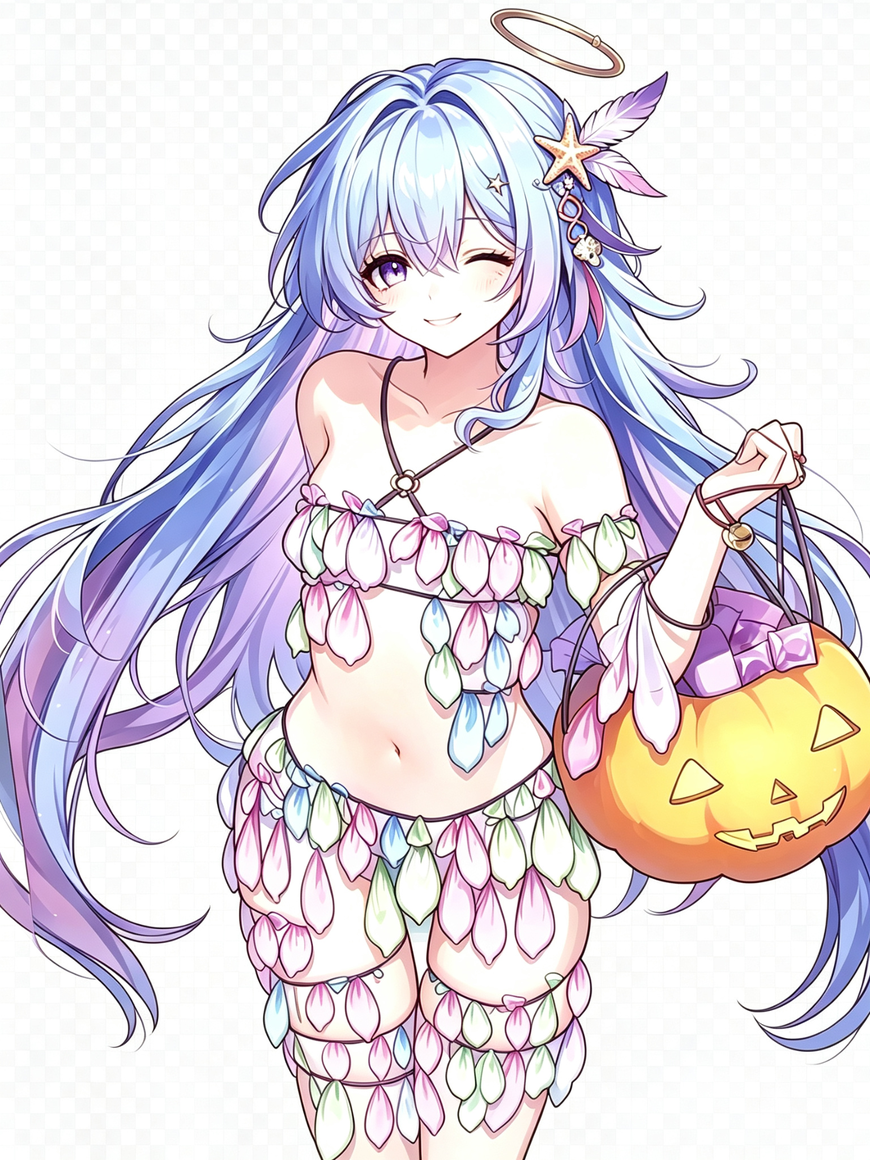
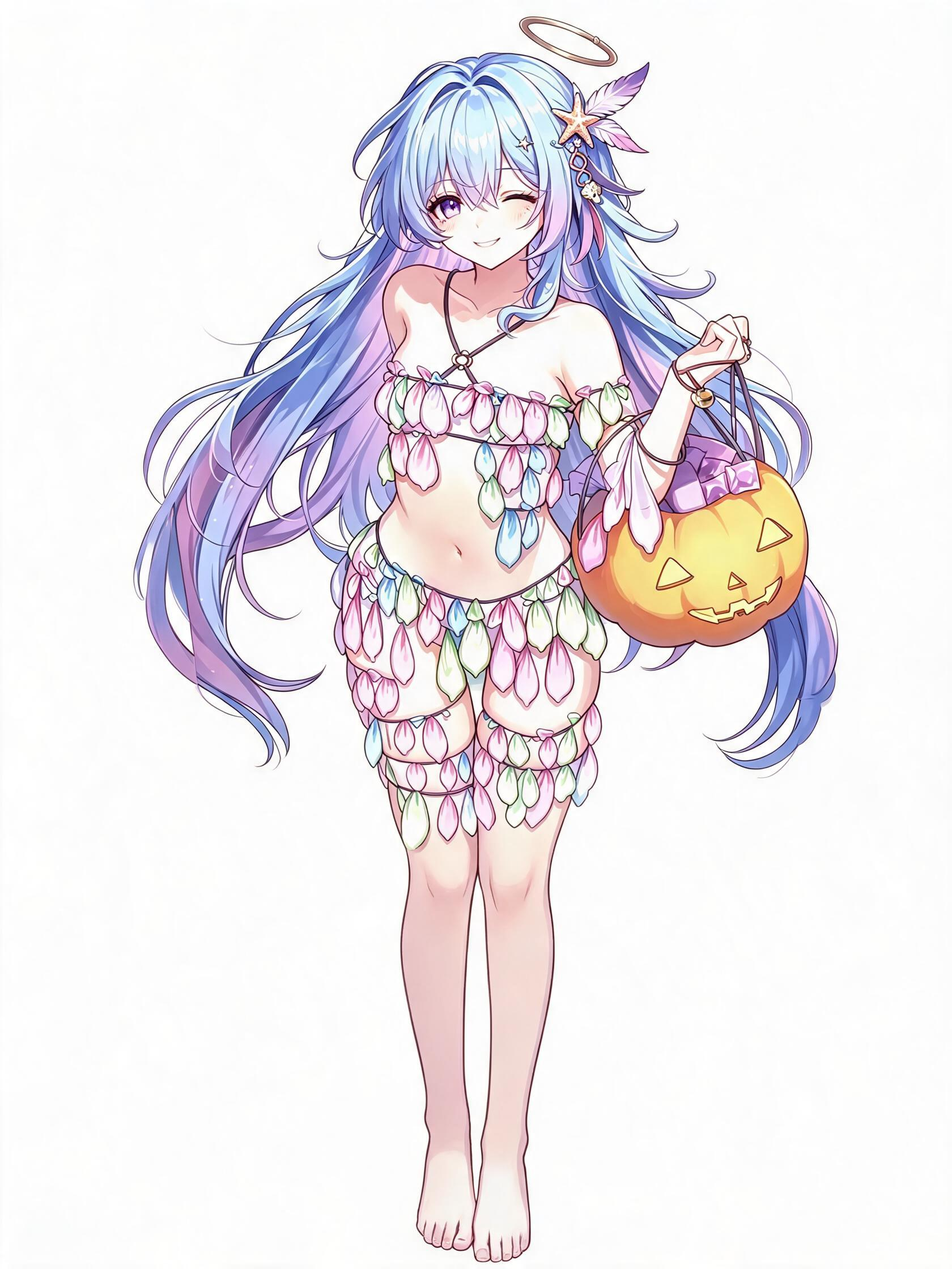
feat: 全身立绘 core-ip 更新 + 光环修复 + rename 去尾缀 + blink 流程 + 托盘图标适配
- core-ip 源图由 .png 更新为 1680×2240 全身立绘（core-ip.jpg），删除旧 core-ip.png
- make-tray-icon.py：源图改 core-ip.jpg，默认裁剪区收紧为 (0.34,0.06,0.66,0.30) 让脸更撑满；重新生成 tray-icon.png
- rename-assets.py：新增「去多余尾缀」能力（<prefix>-<prefix>-<num> → <prefix>-<num>）
- preprocess-v7 -gpu/cpu：keep_largest_connected 增加第 3 规则，保留头顶光环等小而可信的分离部件（面积≥全图0.1% 且 mean alpha≥150）
- blink 流程：新源 blink-0X-full-legs.jpg 经去尾缀收敛为 blink-0X.jpg，全量 GPU 抠图+assemble+process 重处理
- 全量重处理 133 帧后 qa PASS(133/133)，check:quick 全绿
- README 同步 core-ip 引用与托盘生成说明

diff --git a/rename-assets.py b/rename-assets.py
@@ -8,7 +8,7 @@ rename-assets.py — assets-raw 帧整理（流水线第 1 步）：统一转 .j
 （按文件头魔数判定，不信任扩展名）。本脚本把它们统一收敛为
 「<state>-01.jpg … <state>-NN.jpg」，再由 preprocess 统一产出透明 png。
 
-做两件事：
+做三件事：
   1. 转 jpg：真实格式非 jpg 者解码后存 JPEG（默认 q95、4:4:4 无子采样；
      subsampling=0 避免角色边缘色渗）。源为 jpg 时只改名不重编码（无损）。
      RGBA 源按 RGB 落盘（白底图无透明信息需保留）。
@@ -16,6 +16,9 @@ rename-assets.py — assets-raw 帧整理（流水线第 1 步）：统一转 .j
      各自并入连续序列、消除文件名空格（" blink - 1 .png" → "blink-01.jpg"）。
      落盘按**降序执行**（先写高编号），原地重编号时目标名若与未处理帧的源同名
      （如 look-03.5 的目标 look-04.jpg 恰是帧 4 的源），先腾走旧名再写入，不会覆盖真实帧。
+  3. 去多余尾缀：文件名形如 <state>-NN-<尾缀>...（尾缀可含连字符/数字/点）统一收敛为
+     <state>-NN（仅保留「前缀-帧号」两段），例如 look-01-2026-09-06-extra.jpg → look-01.jpg。
+     与编号收拢共用：尾缀帧按其帧号入桶，输出标准名即自动去掉尾缀（mtime 冲突裁决规则一致）。
 
 命名冲突（同帧号多源文件）：按**源文件修改日期最新者**直接覆盖旧的
 （不再送回收站、不再报错中止）。
@@ -39,6 +42,12 @@ FRAME_RE = re.compile(
     re.IGNORECASE,
 )
 
+# 去尾缀：<前缀>-<帧号>-<尾缀>...<ext>，尾缀可含连字符/数字/点，仅取「前缀-帧号」
+FRAME_RE_TAIL = re.compile(
+    r'^(?P<prefix>.+)-(?P<num>\d+(?:\.\d+)?)-.+\.(?P<ext>' + '|'.join(IMG_EXTS) + r')$',
+    re.IGNORECASE,
+)
+
 
 def real_ext(path):
     """读文件头魔数判定真实格式，返回 'png'/'jpg'/'webp'/'bmp'；识别不出返回 None。"""
@@ -59,23 +68,31 @@ def real_ext(path):
 
 
 def collect(prefix, names):
-    """返回 {帧号(float): [原始文件名, ...]}，只保留匹配 <prefix>-<num>.<ext> 的帧。
+    """返回 (items, tail_origins)。
 
+    items: {帧号(float): [原始文件名, ...]}，匹配 <prefix>-<num>.<ext> 或
+           <prefix>-<num>-<尾缀>.<ext>（去尾缀）的帧。
     源导出文件名常带空格（" blink - 1 .png"），匹配前先去空格；
-    同一帧号多文件（多格式并存）全部收集，冲突在 plan 阶段按 mtime 裁决。
+    同一帧号多文件（多格式/带尾缀并存）全部收集，冲突在 plan 阶段按 mtime 裁决。
+    tail_origins: set，记录带尾缀的源文件名（供预览标注「去尾缀」）。
     """
     items = {}
+    tail_origins = set()
     for orig in names:
         base, ext = os.path.splitext(orig.strip())
         if not ext or ext[1:].lower() not in IMG_EXTS:
             continue
         cleaned = base.replace(' ', '') + ext.lower()
         m = FRAME_RE.match(cleaned)
+        if not m:
+            m = FRAME_RE_TAIL.match(cleaned)
+            if m:
+                tail_origins.add(orig.strip())
         if not m or m.group('prefix').lower() != prefix.lower():
             continue
         num = float(m.group('num'))
         items.setdefault(num, []).append(orig.strip())
-    return items
+    return items, tail_origins
 
 
 def plan(prefix, items, d):
@@ -152,7 +169,7 @@ def main():
     short = os.path.basename(d.rstrip('/\\')) or d
 
     for prefix in args.prefix:
-        items = collect(prefix, os.listdir(d))
+        items, tail_origins = collect(prefix, os.listdir(d))
         if not items:
             print(f"[{prefix}] {short} · 未找到该前缀的帧")
             continue
@@ -161,9 +178,14 @@ def main():
         for src, dst in converts:
             tag = "保留" if src.lower() == dst.lower() else (
                 "转 jpg" if real_ext(os.path.join(d, src)) != TARGET_EXT else "改名")
+            if src in tail_origins:
+                tag = "去尾缀" if tag == "保留" else f"去尾缀·{tag}"
             print(f"  · {src} → {dst}   [{tag}]")
         for name in deletes:
-            print(f"  · {name}   [覆盖删除（非最新）]")
+            if name in tail_origins:
+                print(f"  · {name}   [去尾缀·覆盖删除（非最新）]")
+            else:
+                print(f"  · {name}   [覆盖删除（非最新）]")
         if not args.apply:
             continue
         do_convert(d, converts, deletes, args.quality, True)

diff --git a/preprocess-v7 -gpu.py b/preprocess-v7 -gpu.py
@@ -10,8 +10,12 @@ GPU 抠白底：assets-raw/ → taozi-pet/incoming-assets/（透明 PNG，默认
 
 用 BiRefNet 在 CUDA 上推理生成基础 alpha，再叠加三步后处理保证 QA 兼容：
   1) 保护色（肤色 / 南瓜色，含 2px 膨胀）
-  2) 保留中心最大连通块
+  2) 保留主体连通块 + 可信的分离部件（头顶光环）
   3) 清理最边缘 2px 前景
+
+光环浮在头顶、与身体不相连，面积只有主体的 0.5%~0.7% 且位于画面顶部，
+按"只留最大块"的朴素规则会被整块删掉，故第 2 步用「面积 + 置信度」双闸门
+把它与噪点区分开（详见 keep_largest_connected 注释）。
 
 保护色对肤色区做 2px 膨胀，可挽回手部/高光边缘的浅色像素，
 避免 happy/starfish-wave 等挥手状态的手颜色被“洗掉”。
@@ -24,7 +28,7 @@ GPU 抠白底：assets-raw/ → taozi-pet/incoming-assets/（透明 PNG，默认
   python "preprocess-v7 -gpu.py" --cpu        # 强制 CPU 推理
 
 环境: conda activate my_project（torch + CUDA）
-模型: ZhengPeng7/BiRefNet（首次从 HF 镜像下载，约 350MB）
+模型: ZhengPeng7/BiRefNet
 """
 import os
 # 国内环境：让 HF 下载走镜像，避免 huggingface.co 直连超时
@@ -105,24 +109,49 @@ def get_protected_mask(arr, alpha):
     pumpkin = (r > 170) & (g > 110) & (b < 140) & ((r - b) > 70)
     return (skin | pumpkin) & (alpha > 16)
 
+# 分离部件（头顶光环等）保留阈值。
+# 实测 8 个状态：光环 面积占全图 0.148%~0.266%、平均置信度 187~196；
+#               噪点 面积占全图 ≤0.026%、平均置信度 ≤93。
+# 两个闸门各有约 2 倍余量，可稳定区分「小而可信的部件」与「噪点」。
+PART_AREA_RATIO = 0.001   # 分离部件最小面积（占全图比例）
+PART_MEAN_ALPHA = 150     # 分离部件最低平均置信度
+
+
 def keep_largest_connected(alpha):
+    """保留主体连通块，以及可信的分离部件（如头顶光环）。
+
+    命中任一条件即保留：
+      1) 面积最大的块 —— 主体
+      2) 面积 > 主体 30% 且距画面中心 < 0.4h —— 与主体断开的大部件
+      3) 面积 ≥ 全图 0.1% 且平均置信度 ≥ 150 —— 小而可信的分离部件（光环）
+
+    第 3 条专为光环而设：它浮在头顶、与身体不相连，面积仅主体的 0.5%~0.7%，
+    位置又在画面顶部（距中心约 0.47h > 0.4h），按旧规则两条判据同时不满足，
+    会被当成噪声整块删除。面积用「占全图比例」而非绝对像素，兼顾
+    1536×2048 与 1680×2240 两种源分辨率。
+    """
     h, w = alpha.shape
     fg = alpha > 16
     labeled, num = ndimage.label(fg)
     if num == 0:
         return alpha
-    sizes = ndimage.sum(fg, labeled, range(1, num + 1))
-    centers = ndimage.center_of_mass(fg, labeled, range(1, num + 1))
+    labs = range(1, num + 1)
+    sizes = ndimage.sum(fg, labeled, labs)
+    centers = ndimage.center_of_mass(fg, labeled, labs)
+    means = ndimage.mean(alpha, labeled, labs)
     max_area = float(sizes.max())
+    min_area = h * w * PART_AREA_RATIO
     keep = np.zeros((h, w), dtype=bool)
-    for lab in range(1, num + 1):
+    for lab in labs:
         area = float(sizes[lab - 1])
         if area == max_area:
-            keep |= (labeled == lab)
+            keep |= (labeled == lab)  # 主体
         elif area > max_area * 0.3:
-            cy, cx = centers[lab - 1]
-            if ((cy - h/2)**2 + (cx - w/2)**2) ** 0.5 < h * 0.4:
+            cy, cx = centers[lab - 1]  # 与主体断开的大部件：需靠近中心
+            if ((cy - h / 2) ** 2 + (cx - w / 2) ** 2) ** 0.5 < h * 0.4:
                 keep |= (labeled == lab)
+        elif area >= min_area and float(means[lab - 1]) >= PART_MEAN_ALPHA:
+            keep |= (labeled == lab)  # 小而可信的分离部件（光环）
     new_alpha = np.zeros((h, w), dtype=np.uint8)
     new_alpha[keep] = alpha[keep]
     return new_alpha

diff --git a/preprocess-v7-cpu.py b/preprocess-v7-cpu.py
@@ -2,7 +2,7 @@
 CPU 抠白底（v7 洪水填充算法）：assets-raw/ → taozi-pet/incoming-assets/（透明 PNG）
 
 仅从左/右/上边缘发起洪水填充（下方不发起，保护脚底），叠加保护色障碍物、
-最大连通块保留。
+主体连通块 + 可信分离部件（头顶光环）保留。
 
 GPU 版（preprocess-v7 -gpu.py）为默认路径，本脚本仅作**应急兜底**：
 默认只处理 DEFAULT_STATES 列出的 8 个状态，walk/sleep/sad/peek 需显式 --states 指定。
@@ -62,26 +62,42 @@ def flood_fill_from_edges(arr, alpha, protected=None):
         return np.zeros((h, w), dtype=bool)
     return np.isin(labeled, list(edge_labels))
 
+# 分离部件（头顶光环等）保留阈值，与 GPU 版同口径：
+# 光环浮在头顶、与身体不相连，面积仅主体的 0.5%~0.7% 且在画面顶部，
+# 按"只留最大块"会被整块删除。用「面积占全图比例 + 平均置信度」双闸门区分噪点。
+PART_AREA_RATIO = 0.001
+PART_MEAN_ALPHA = 150
+
+
 def keep_largest_connected(alpha):
+    """保留主体连通块，以及可信的分离部件（如头顶光环），命中任一条件即保留：
+      1) 面积最大的块 —— 主体
+      2) 面积 > 主体 30% 且距画面中心 < 0.4h —— 与主体断开的大部件
+      3) 面积 ≥ 全图 0.1% 且平均置信度 ≥ 150 —— 小而可信的分离部件（光环）
+    """
     from scipy import ndimage
     h, w = alpha.shape
     fg = alpha > 16
     labeled, num = ndimage.label(fg)
     if num == 0:
         return alpha
-    sizes = ndimage.sum(fg, labeled, range(1, num + 1))
-    # 质心（用于"近中心"判定）
-    centers = ndimage.center_of_mass(fg, labeled, range(1, num + 1))
+    labs = range(1, num + 1)
+    sizes = ndimage.sum(fg, labeled, labs)
+    centers = ndimage.center_of_mass(fg, labeled, labs)
+    means = ndimage.mean(alpha, labeled, labs)
     max_area = float(sizes.max())
+    min_area = h * w * PART_AREA_RATIO
     keep = np.zeros((h, w), dtype=bool)
-    for lab in range(1, num + 1):
+    for lab in labs:
         area = float(sizes[lab - 1])
         if area == max_area:
-            keep |= (labeled == lab)
+            keep |= (labeled == lab)  # 主体
         elif area > max_area * 0.3:
-            cy, cx = centers[lab - 1]
-            if ((cy - h/2)**2 + (cx - w/2)**2) ** 0.5 < h * 0.4:
+            cy, cx = centers[lab - 1]  # 与主体断开的大部件：需靠近中心
+            if ((cy - h / 2) ** 2 + (cx - w / 2) ** 2) ** 0.5 < h * 0.4:
                 keep |= (labeled == lab)
+        elif area >= min_area and float(means[lab - 1]) >= PART_MEAN_ALPHA:
+            keep |= (labeled == lab)  # 小而可信的分离部件（光环）
     new_alpha = np.zeros((h, w), dtype=np.uint8)
     new_alpha[keep] = alpha[keep]
     return new_alpha

diff --git a/make-tray-icon.py b/make-tray-icon.py
@@ -1,7 +1,7 @@
 #!/usr/bin/env python3
-"""从 core-ip.png 的头部裁剪生成托盘图标。
+"""从 core-ip.jpg 的头部裁剪生成托盘图标。
 
-与 process-assets.mjs 解耦：因为 core-ip.png 是角色母版源图，永远不会
+与 process-assets.mjs 解耦：因为 core-ip.jpg 是角色母版源图，永远不会
 变化，所以托盘图标可以独立于动画帧流水线更新，不用每次重跑全部素材。
 
 抠图策略：
@@ -18,12 +18,14 @@ import sys
 from collections import deque
 from PIL import Image
 
-DEFAULT_CORE = "core-ip.png"
+DEFAULT_CORE = "core-ip.jpg"
 DEFAULT_OUT = os.path.join("taozi-pet", "src", "assets", "tray", "tray-icon.png")
 
-# 默认取头部+头发核心区（横向 30%-70%、纵向 2%-32%），
+# 默认取头部+头发核心区（横向 34%-66%、纵向 6%-30%），
 # 比例接近正方形，让脸在 32×32 托盘里更完整、更撑满。
-DEFAULT_CROP_RATIO = (0.30, 0.02, 0.70, 0.32)
+# 该默认值针对 1680×2240 的全身立绘 core-ip.jpg 调好，会从顶部裁剪出以脸
+# 为中心的方形区域；其它分辨率会按比例自动重算。
+DEFAULT_CROP_RATIO = (0.34, 0.06, 0.66, 0.30)
 
 
 def parse_crop(value):
@@ -118,7 +120,7 @@ def unpremultiply_alpha(image):
 
 def main():
     parser = argparse.ArgumentParser(description=__doc__)
-    parser.add_argument("--core", default=DEFAULT_CORE, help="源图路径（默认 core-ip.png）")
+    parser.add_argument("--core", default=DEFAULT_CORE, help="源图路径（默认 core-ip.jpg）")
     parser.add_argument("--out", default=DEFAULT_OUT, help=f"输出路径（默认 {DEFAULT_OUT}）")
     parser.add_argument("--crop", type=parse_crop, help="覆盖默认裁剪区域：x1,y1,x2,y2（原图坐标）")
     parser.add_argument("--size", type=int, default=32, help="输出画布边长（默认 32）")
